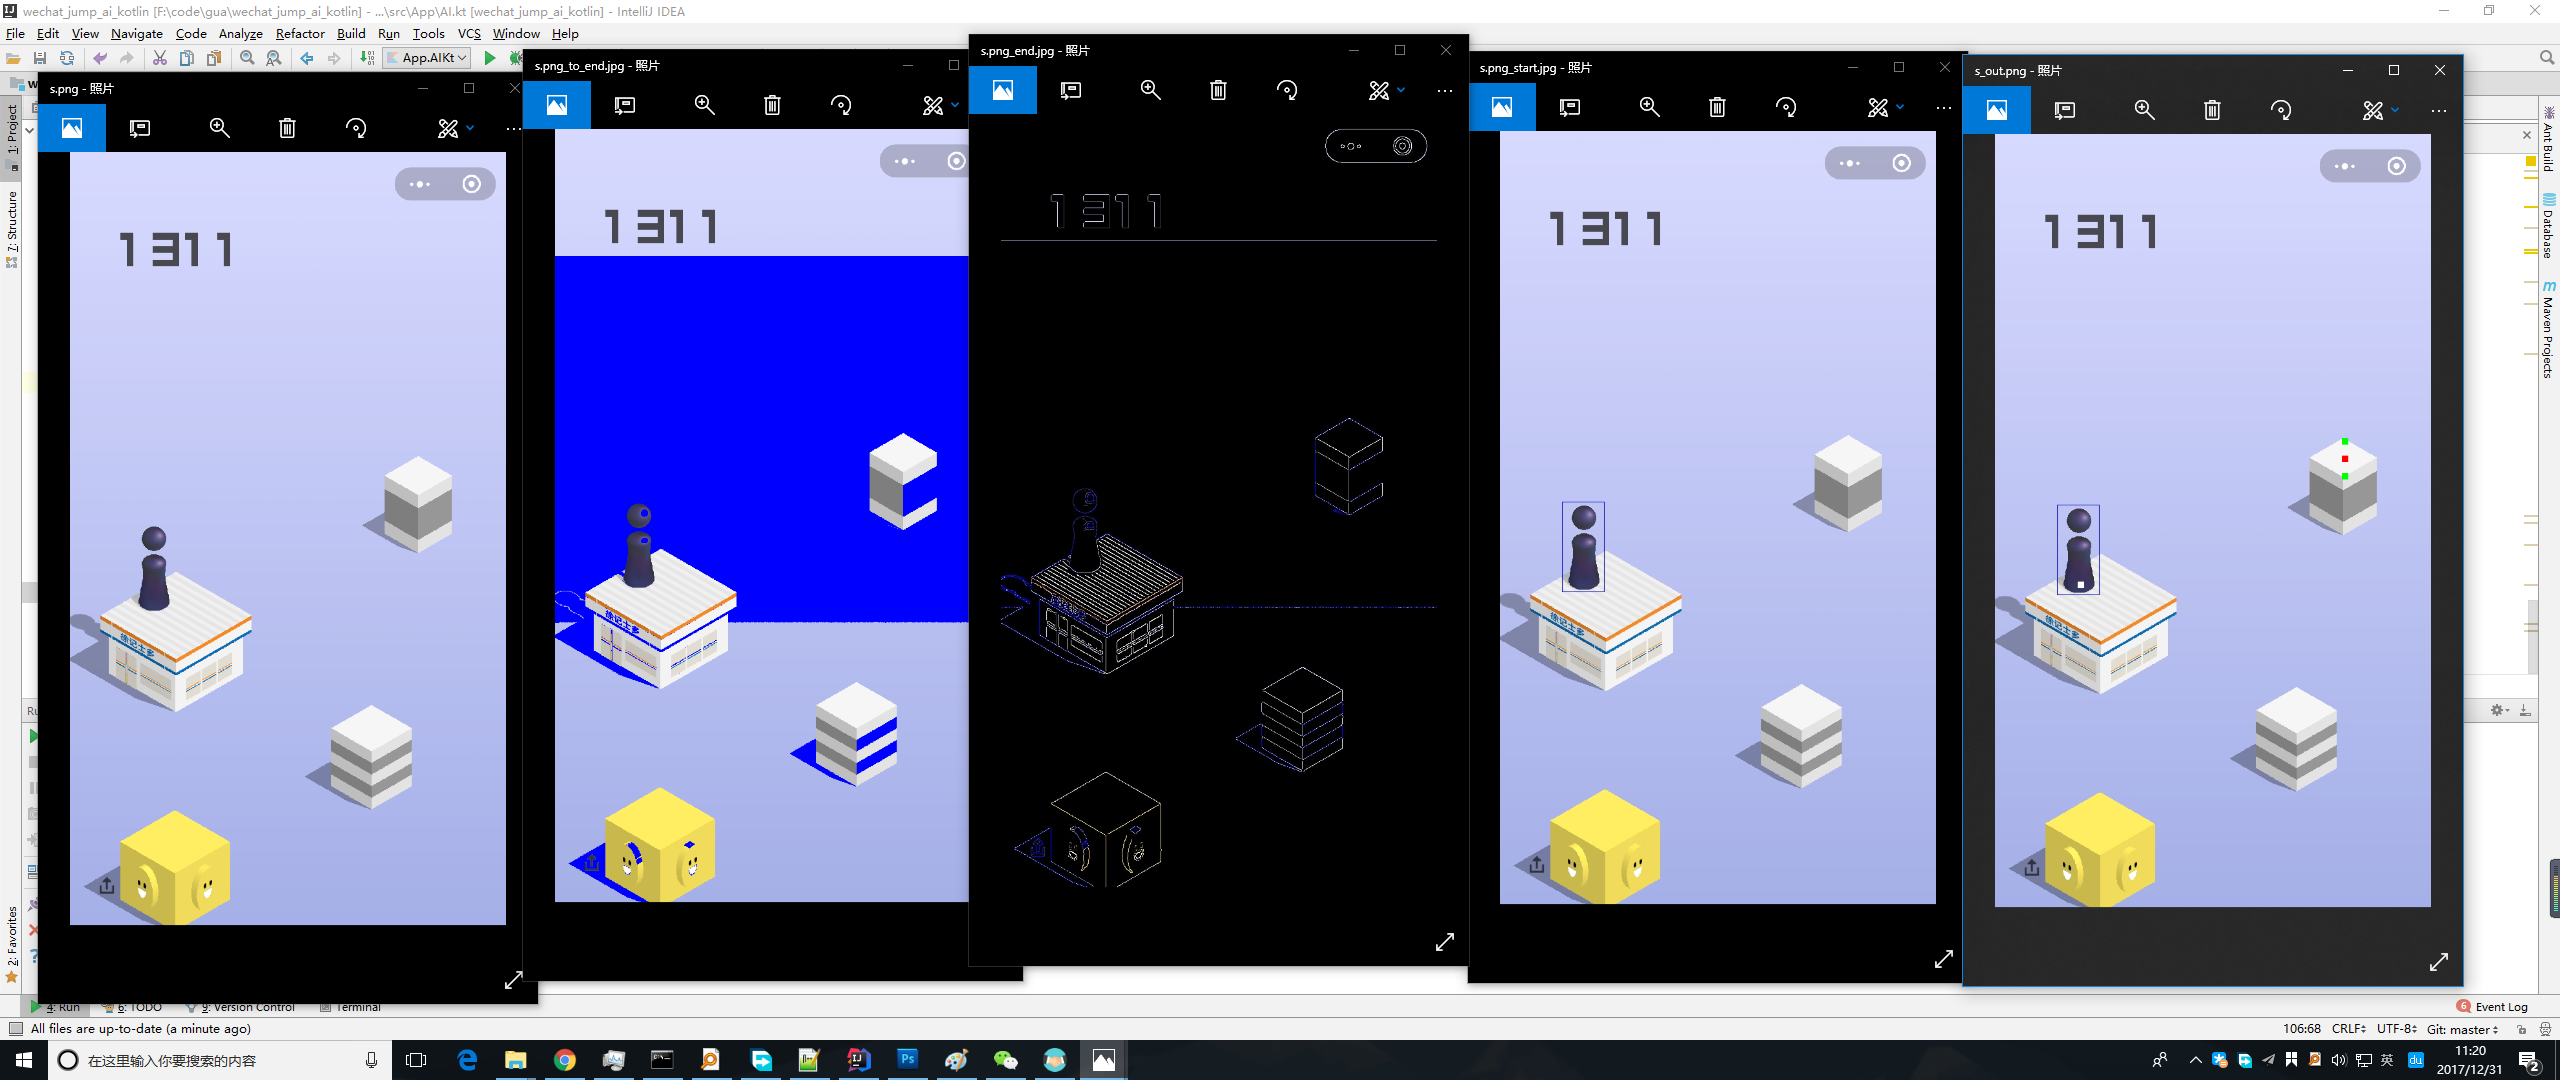
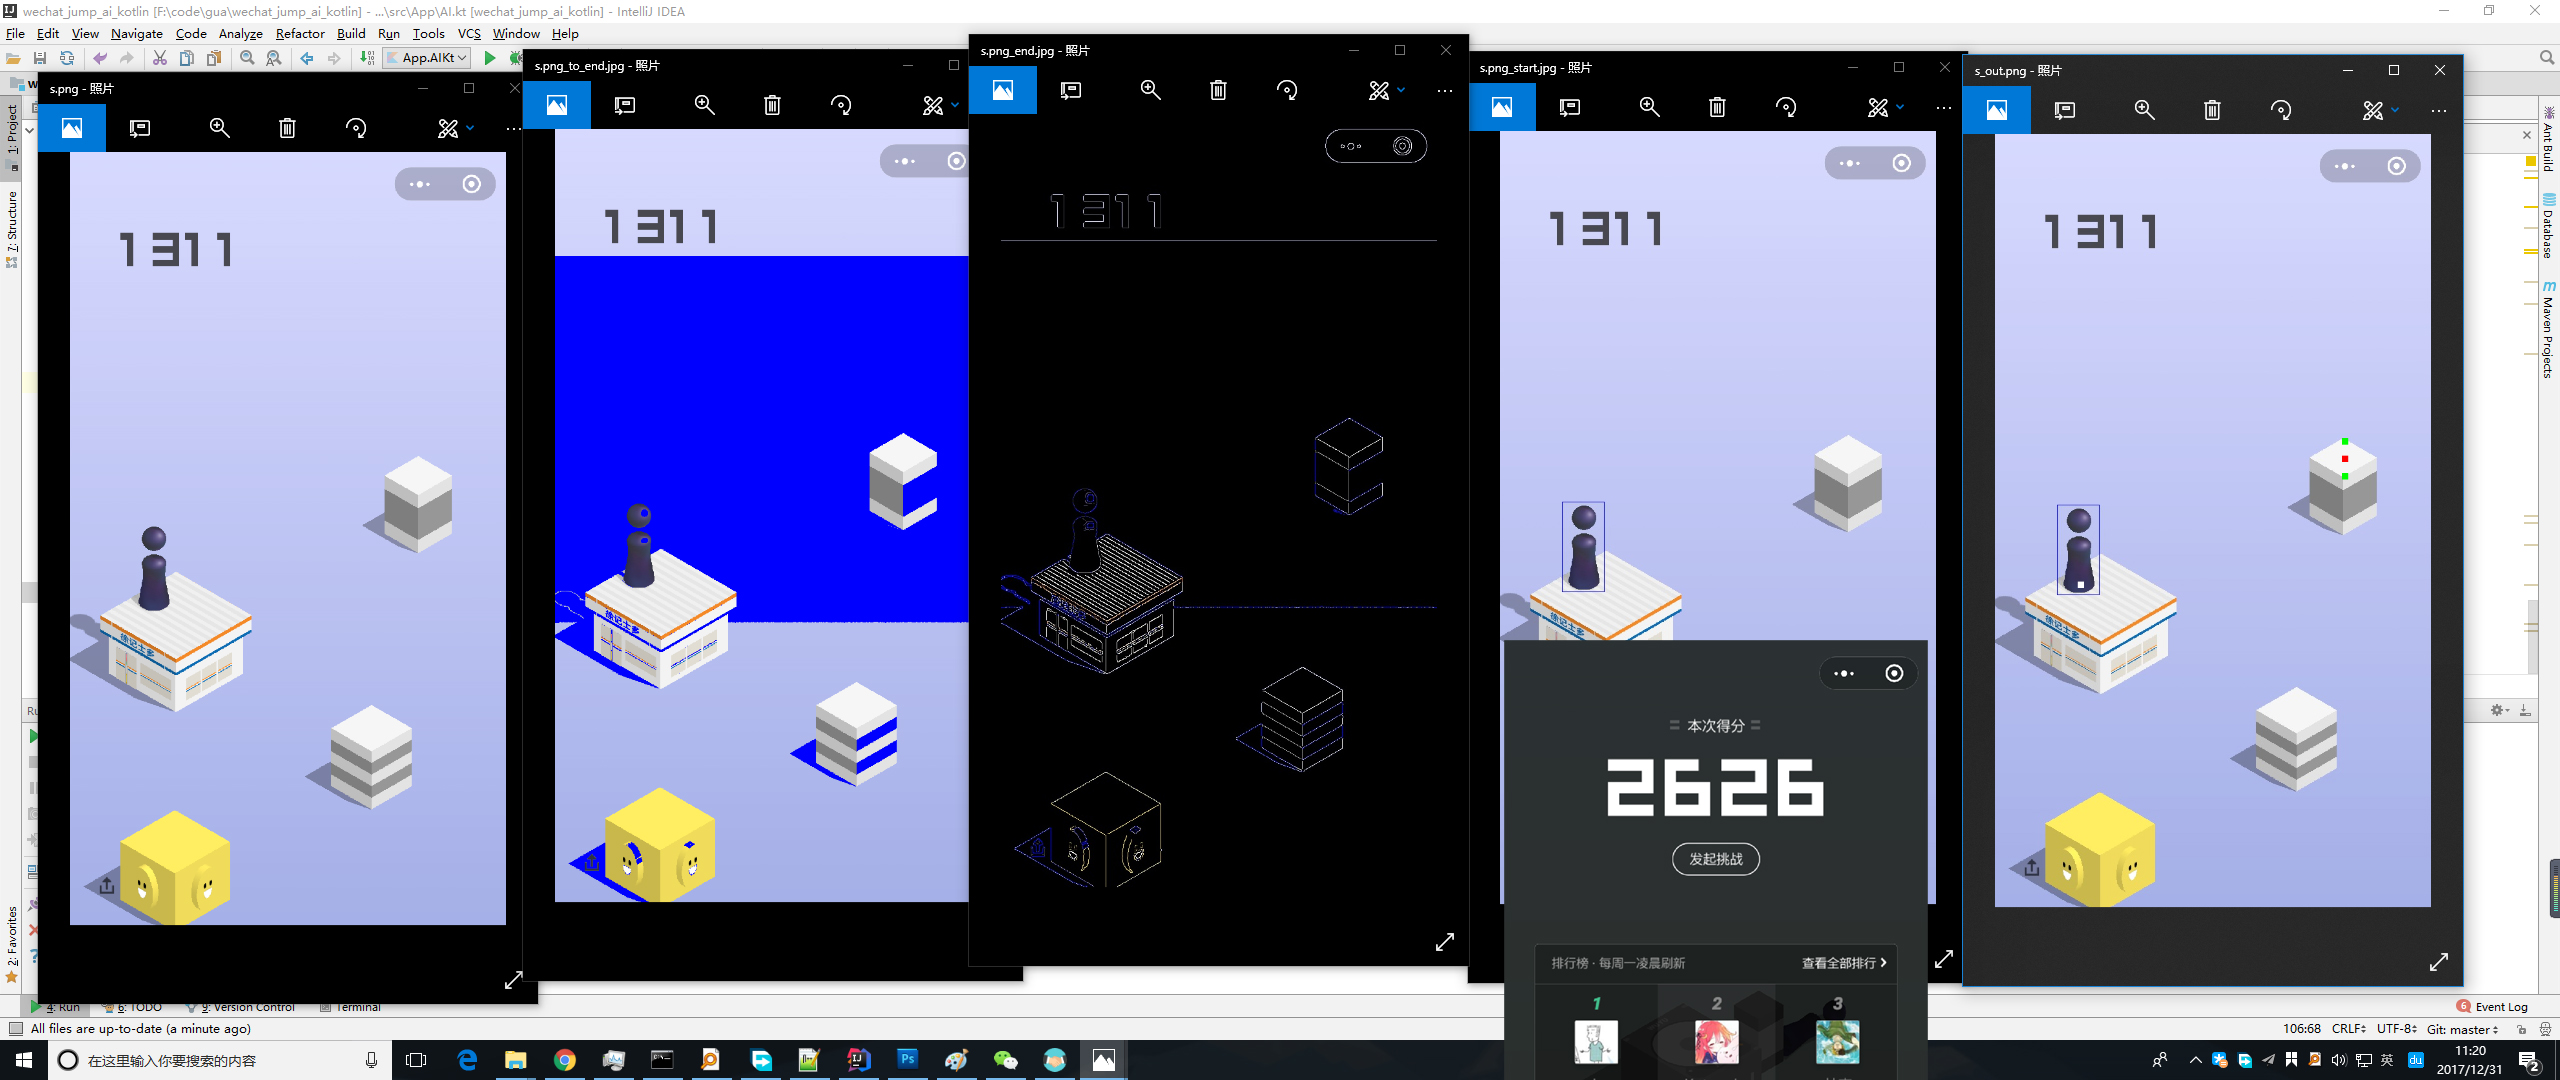
update pic and timer

Changed region(s): [[0.5625, 0.5806, 0.75, 1.0]]

diff --git a/src/App/Constants.kt b/src/App/Constants.kt
@@ -27,7 +27,7 @@ val USE_OPENCV = true
 /**
  * 定时器时间,可以根据手机响应速度适当调整，单位毫秒
  */
-val TIMER: Long = 5000
+val TIMER: Long = 7000
 
 /**
  * 移动系数，如果跳的位置不准确，可以适当修改系数，
